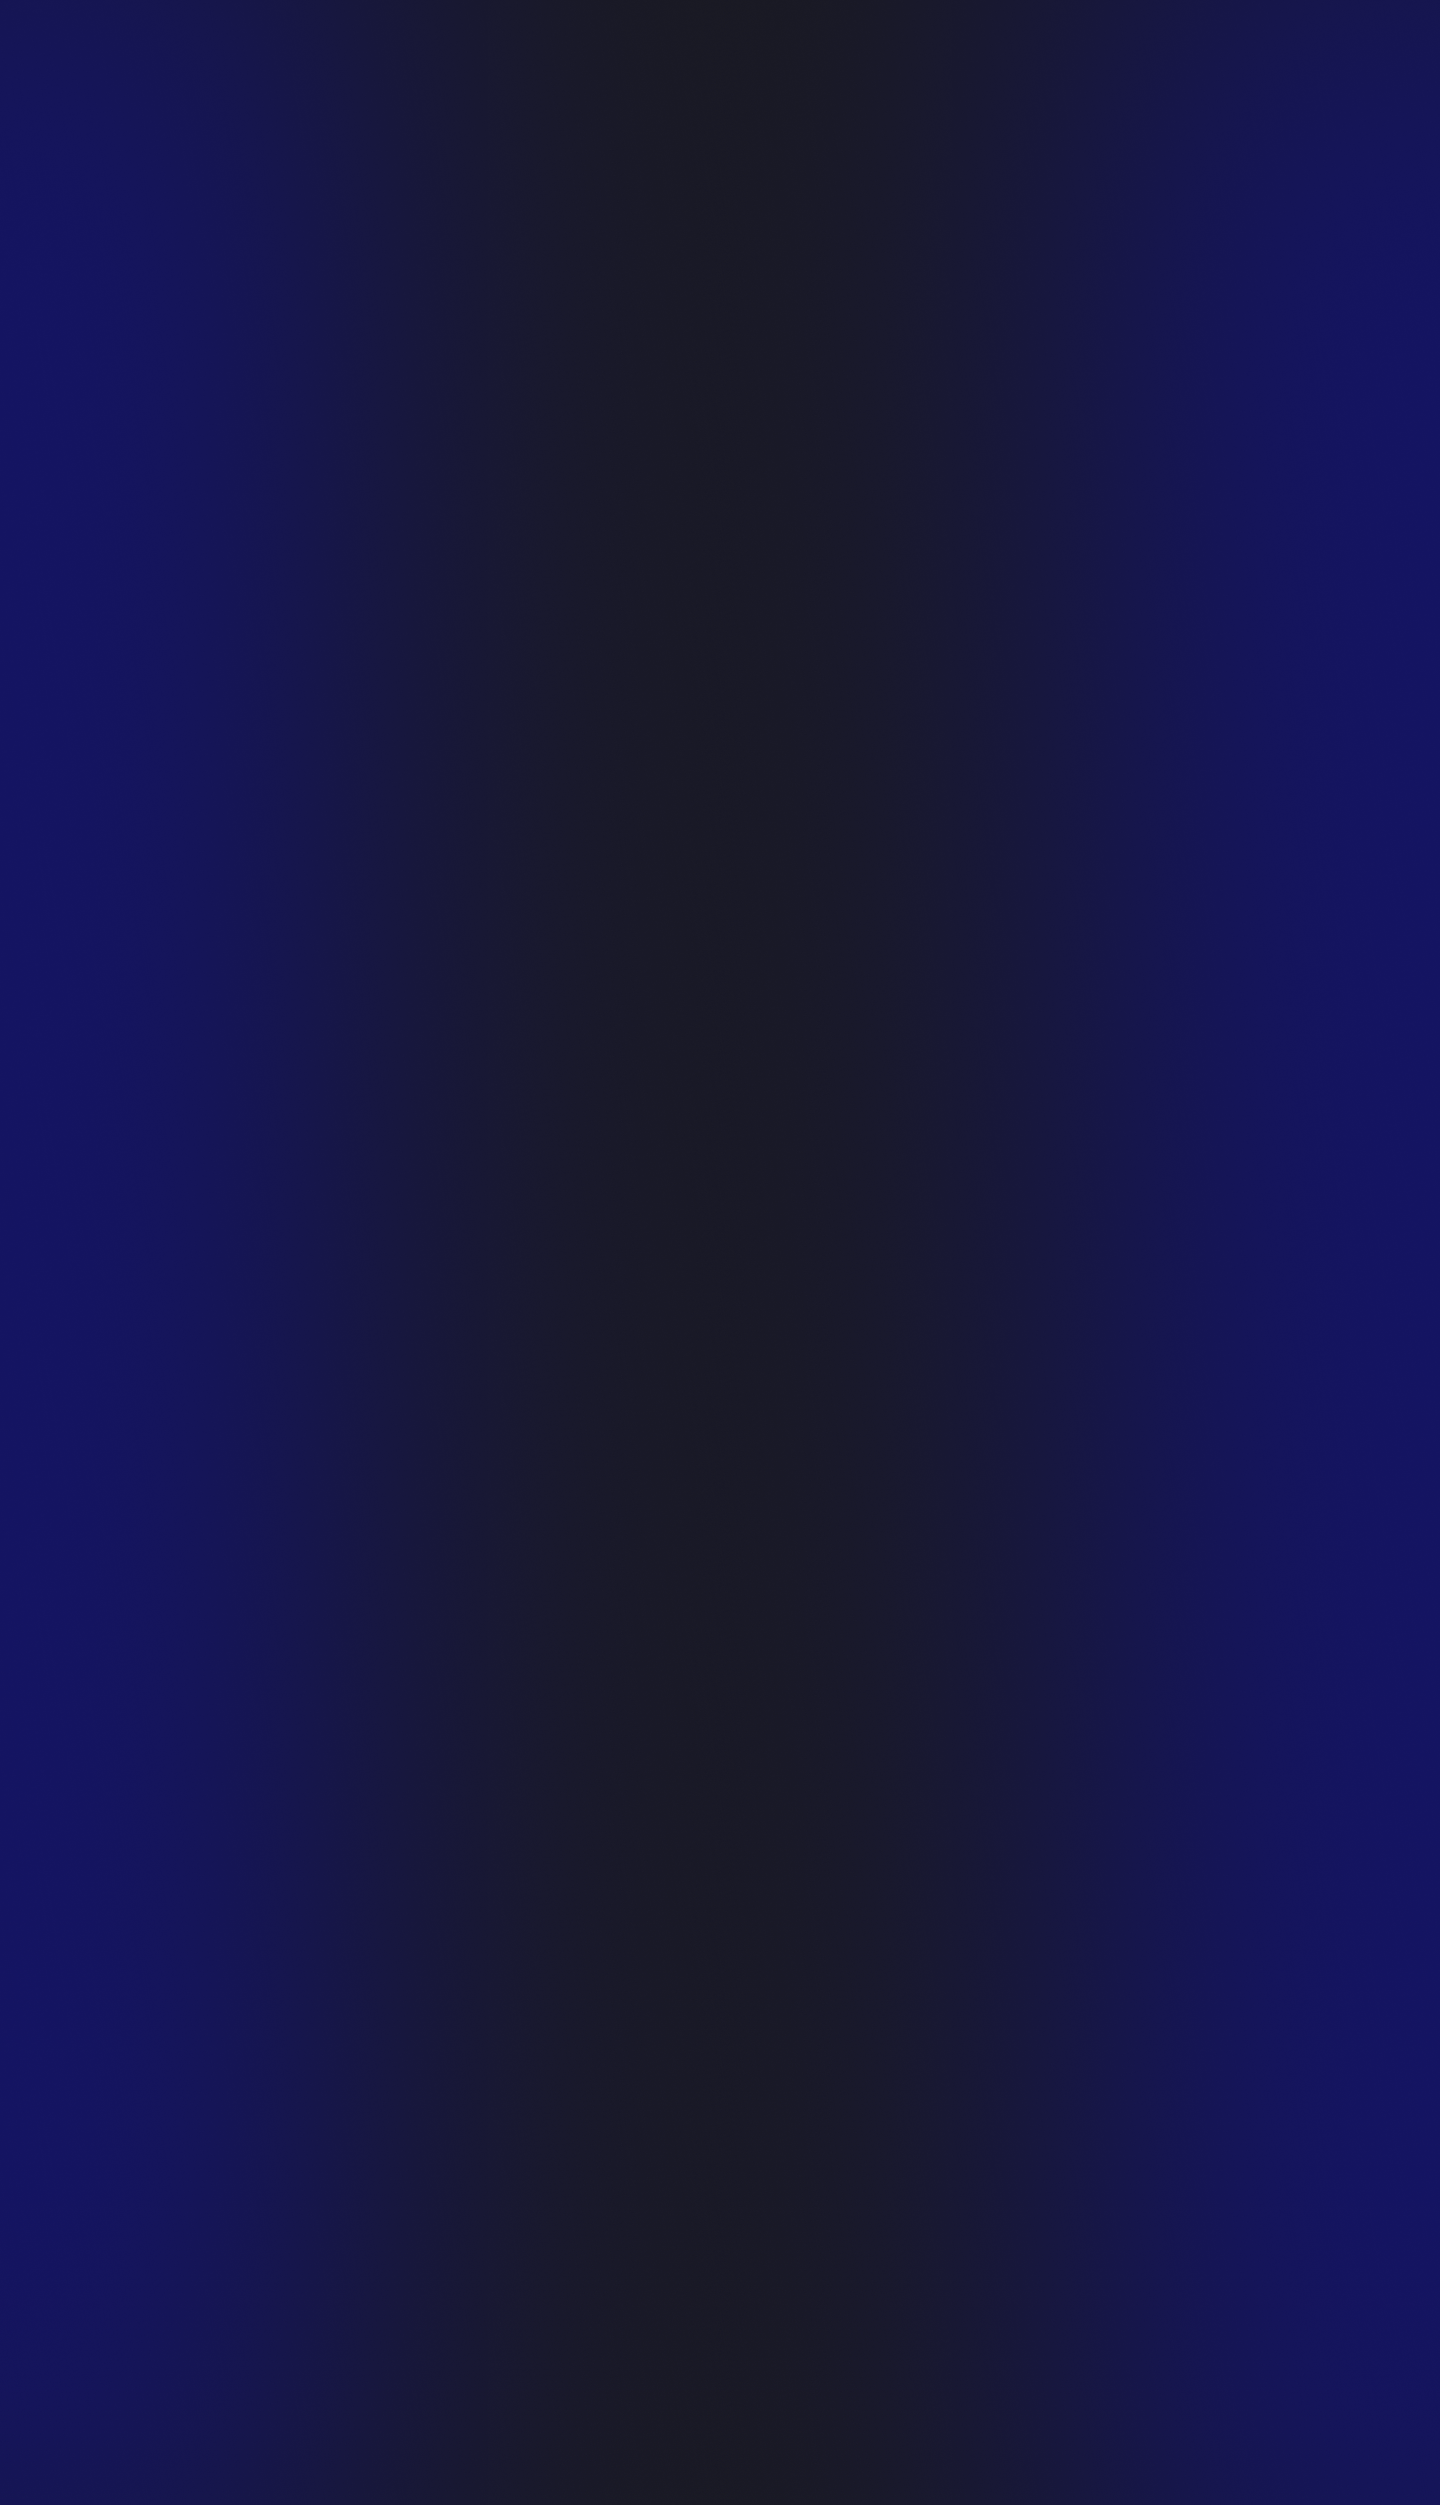
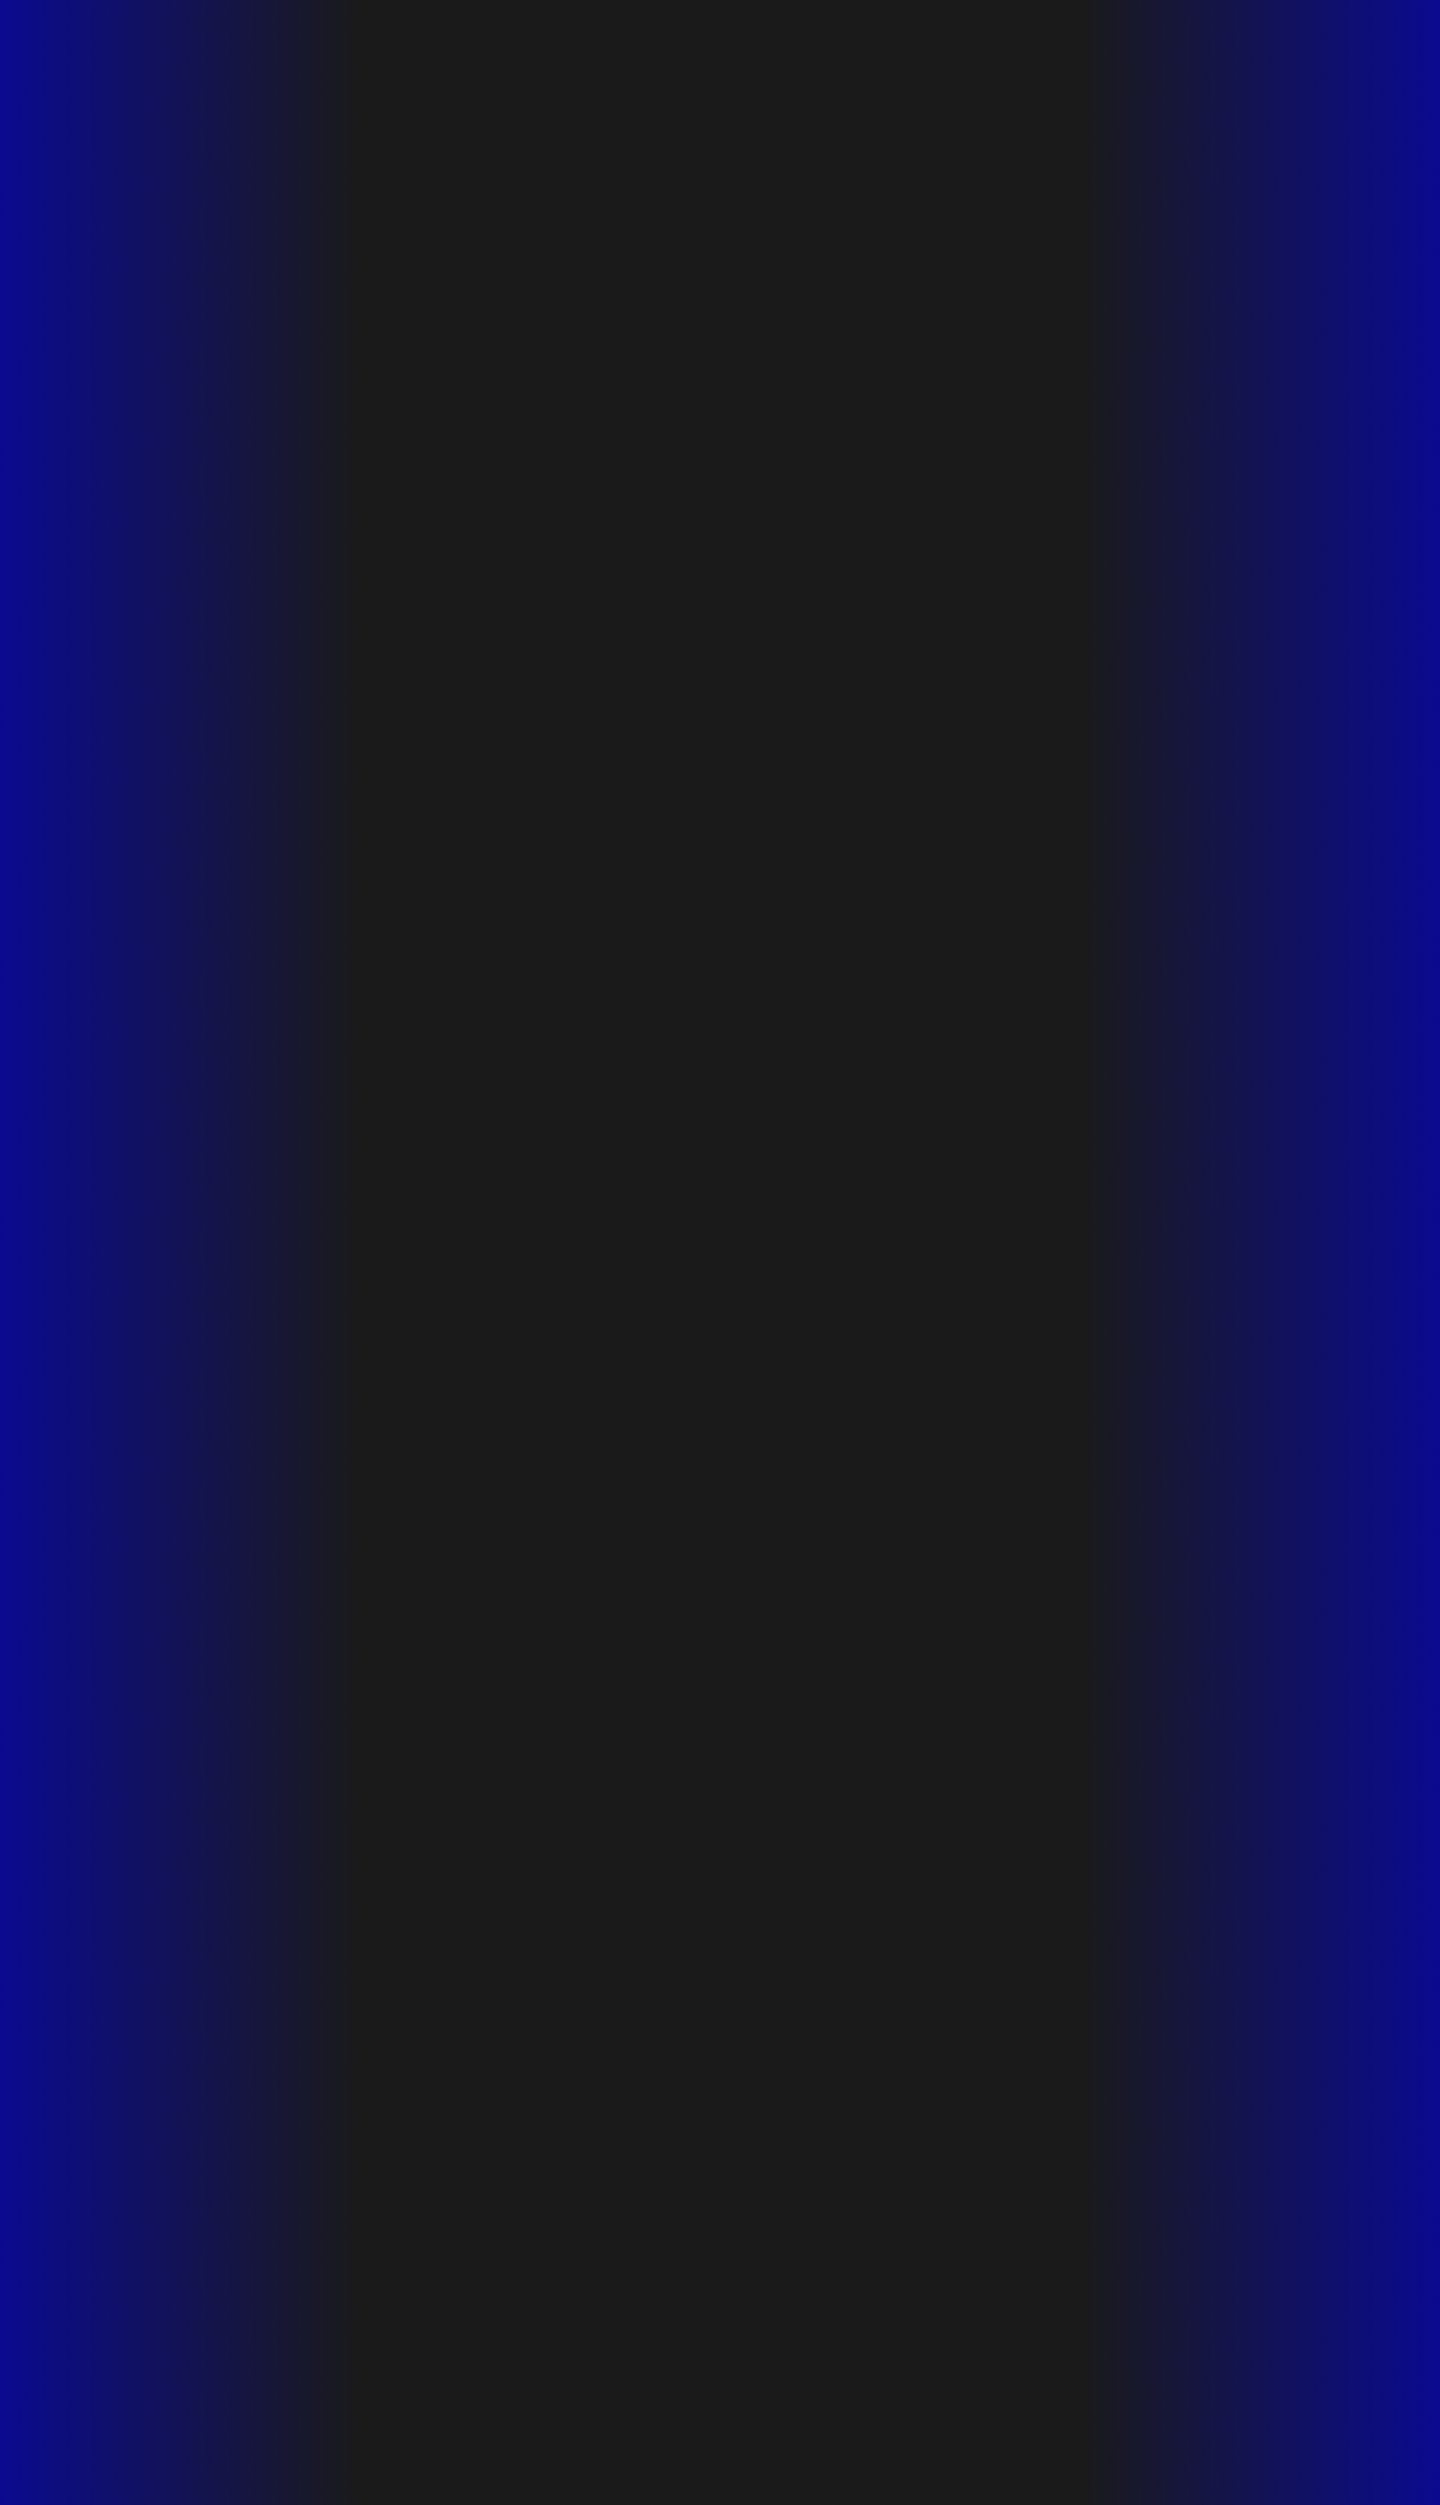
maken zitschalen pagina

diff --git a/app/contexts/LanguageContext.tsx b/app/contexts/LanguageContext.tsx
@@ -63,12 +63,15 @@ const translations = {
 
     // Zitschalen detail page
     "zitschalen.title": "Zitschalen / Zitortheses",
+    "zitschalen.heading1": "Zitschalen en zitortheses",
+    "zitschalen.heading2": "Het process",
+    "zitschalen.heading3": "De functie",
     "zitschalen.section1":
-      "Bij FIS Robotics ontwikkelen we op maat gemaakte zitschalen en zitortheses die perfect aansluiten op de unieke lichaamsvorm van elke gebruiker. Door gebruik te maken van geavanceerde 3D-scantechnologie kunnen we tot op de millimeter nauwkeurig werken, wat resulteert in optimaal comfort en ondersteuning voor dagelijks gebruik.",
+      "Zitschalen, ook wel zitortheses genoemd, zijn orthopedische hulpmiddelen die ontworpen zijn om een correcte en stabiele zithouding te ondersteunen. Ze worden volledig op maat gemaakt, omdat iedere patiënt een unieke lichaamsvorm en specifieke ondersteuningsbehoefte heeft.\n\nHet doel van een zitschaal is om het lichaam optimaal te positioneren, zodat de gebruiker comfortabel kan zitten en lichamelijke klachten worden verminderd of voorkomen. Door gebruik te maken van moderne technieken zoals 3D-scans en digitale modellen kan een zitschaal zeer nauwkeurig worden afgestemd op de persoon.",
     "zitschalen.section2":
-      "Onze zitoplossingen worden vervaardigd uit hoogwaardige, medisch gecertificeerde materialen die zowel lichtgewicht als extreem duurzaam zijn. We werken nauw samen met ergotherapeuten, fysiotherapeuten en revalidatieartsen om ervoor te zorgen dat elk product voldoet aan de hoogste medische standaarden en de levenskwaliteit van gebruikers significant verbetert.",
+      "Het maken van een zitschaal begint met het aanmeten van de patiënt. Hierbij wordt een afdruk gemaakt van de zithouding. Deze afdruk wordt vervolgens digitaal ingescand met een 3D-scanner, zodat er een nauwkeurig digitaal model ontstaat.\n\nVanuit deze scan wordt een 3D-model gemaakt waarin de nodige orthopedische aanpassingen worden verwerkt. In het traditionele proces werd daarna een mal gefreesd en een kunststof plaat gevormd, die later nog moest worden bijgewerkt en gemonteerd.\n\nIn het nieuwe proces wordt het digitale model rechtstreeks gebruikt om de zitschaal met een 3D-printer te produceren. Hierdoor zijn minder bewerkingen nodig en ontstaat er minder afval. Na het printen wordt de zitschaal gemonteerd met bijvoorbeeld polstering en een onderstel.",
     "zitschalen.section3":
-      "Innovatie staat centraal in alles wat we doen. Van het eerste consult tot de uiteindelijke levering begeleiden we u door het hele proces. Ons team van specialisten staat klaar om samen met u de perfecte zitoplossing te vinden die aansluit bij uw specifieke behoeften, mobiliteit en levensstijl.",
+      "De belangrijkste functie van een zitschaal is het ondersteunen van een goede zithouding en het verbeteren van het comfort van de gebruiker. Door de persoonlijke pasvorm wordt het lichaam goed ondersteund, wat helpt om drukpunten te verminderen en een betere lichaamshouding te behouden.\n\nDaarnaast zorgen moderne productiemethoden, zoals 3D-printen, ervoor dat zitschalen duurzamer geproduceerd kunnen worden. Het materiaal kan vaak gerecycled worden en er is minder afval tijdens de productie. Ook kan het productieproces efficiënter en sneller verlopen.",
 
     // Creatief detail page
     "creatief.title": "Creatieve Industrie",
@@ -135,12 +138,15 @@ const translations = {
 
     // Zitschalen detail page
     "zitschalen.title": "Seating Shells / Orthoses",
+    "zitschalen.heading1": "Seating shells and orthoses",
+    "zitschalen.heading2": "The process",
+    "zitschalen.heading3": "The function",
     "zitschalen.section1":
-      "At FIS Robotics, we develop custom-made seating shells and orthoses that perfectly match each user's unique body shape. Using advanced 3D scanning technology, we work with millimetre precision, resulting in optimal comfort and support for daily use.",
+      "Seating shells, also known as seating orthoses, are orthopedic assistive devices designed to support a correct and stable seated posture. They are made completely to measure, because every patient has a unique body shape and specific support needs.\n\nThe goal of a seating shell is to position the body optimally, so the user can sit comfortably and physical complaints can be reduced or prevented. By using modern techniques such as 3D scans and digital models, a seating shell can be matched very precisely to the individual.",
     "zitschalen.section2":
-      "Our seating solutions are made from high-quality, medically certified materials that are both lightweight and extremely durable. We work closely with occupational therapists, physiotherapists and rehabilitation physicians to ensure that each product meets the highest medical standards and significantly improves users' quality of life.",
+      "Making a seating shell starts with fitting the patient. First, an impression is taken of the seated posture. This impression is then digitally scanned with a 3D scanner to create an accurate digital model.\n\nFrom this scan, a 3D model is created in which the required orthopedic adjustments are incorporated. In the traditional process, a mould was then milled and a plastic sheet formed, which later still needed to be refined and mounted.\n\nIn the new process, the digital model is used directly to produce the seating shell with a 3D printer. This means fewer processing steps are needed and less waste is created. After printing, the seating shell is assembled with, for example, padding and a base frame.",
     "zitschalen.section3":
-      "Innovation is at the heart of everything we do. From the first consultation to final delivery, we guide you through the entire process. Our team of specialists is ready to help you find the perfect seating solution that fits your specific needs, mobility and lifestyle.",
+      "The main function of a seating shell is to support a good seated posture and improve the user's comfort. With the personalized fit, the body is supported properly, helping to reduce pressure points and maintain a better body posture.\n\nIn addition, modern production methods such as 3D printing make seating shells more sustainably produced. The material can often be recycled and there is less waste during production. The production process can also be more efficient and faster.",
 
     // Creatief detail page
     "creatief.title": "Creative Industry",

diff --git a/app/components/ImageCarousel.tsx b/app/components/ImageCarousel.tsx
@@ -59,15 +59,14 @@ export const ImageCarousel: React.FC<ImageCarouselProps> = ({ images, altPrefix 
       {images.length > 0 ? (
         <div
           key={`${index}-${direction}`}
-          className={`relative w-full h-full ${
-            direction === "next" ? "animate-slide-next" : "animate-slide-prev"
-          }`}
+          className={`relative w-full h-full bg-black ${direction === "next" ? "animate-slide-next" : "animate-slide-prev"
+            }`}
         >
           <Image
             src={images[index]}
             alt={`${altPrefix} ${index + 1}`}
             fill
-            className="object-cover"
+            className="object-contain object-center"
             sizes="(max-width: 768px) 100vw, 50vw"
             draggable={false}
           />
@@ -81,10 +80,10 @@ export const ImageCarousel: React.FC<ImageCarouselProps> = ({ images, altPrefix 
           e.stopPropagation();
           goPrev();
         }}
-        className="absolute left-2 top-1/2 -translate-y-1/2 flex h-12 w-12 items-center justify-center text-white hover:text-gray-200 transition-colors"
+        className="absolute left-3 top-1/2 -translate-y-1/2 flex h-50 w-16 items-center justify-center text-white hover:text-gray-200 transition-colors"
         aria-label="Vorige"
       >
-        <span className="text-4xl leading-none drop-shadow-[0_0_6px_rgba(0,0,0,0.7)]">‹</span>
+        <span className="text-7xl leading-none drop-shadow-[0_0_10px_rgba(0,0,0,0.7)]">‹</span>
       </button>
 
       <button
@@ -94,10 +93,10 @@ export const ImageCarousel: React.FC<ImageCarouselProps> = ({ images, altPrefix 
           e.stopPropagation();
           goNext();
         }}
-        className="absolute right-2 top-1/2 -translate-y-1/2 flex h-12 w-12 items-center justify-center text-white hover:text-gray-200 transition-colors"
+        className="absolute right-3 top-1/2 -translate-y-1/2 flex h-24 w-16 items-center justify-center text-white hover:text-gray-200 transition-colors"
         aria-label="Volgende"
       >
-        <span className="text-4xl leading-none drop-shadow-[0_0_6px_rgba(0,0,0,0.7)]">›</span>
+        <span className="text-7xl leading-none drop-shadow-[0_0_10px_rgba(0,0,0,0.7)]">›</span>
       </button>
 
       <div className="absolute bottom-2 left-1/2 -translate-x-1/2 flex gap-2">
@@ -111,9 +110,8 @@ export const ImageCarousel: React.FC<ImageCarouselProps> = ({ images, altPrefix 
               setDirection(idx > index ? "next" : "prev");
               setIndex(idx);
             }}
-            className={`w-2.5 h-2.5 rounded-full border border-white/70 transition-colors ${
-              idx === index ? "bg-white" : "bg-white/20"
-            }`}
+            className={`w-2.5 h-2.5 rounded-full border border-white/70 transition-colors ${idx === index ? "bg-white" : "bg-white/20"
+              }`}
             aria-label={`Toon afbeelding ${idx + 1}`}
           />
         ))}

diff --git a/app/zitschalen/page.tsx b/app/zitschalen/page.tsx
@@ -27,19 +27,36 @@ export default function ZitschalenPage() {
   const sections = useMemo(
     () => [
       {
-        image: "",
+
+        images: ["/images/zitschalen1.png",
+          "/images/zitschalen2.png",
+          "/images/zitschalen3.png",
+          "/images/zitschalen4.png"],
+        heading: t("zitschalen.heading1"),
         text: t("zitschalen.section1"),
-        imagePosition: "right" as const,
-      },
-      {
-        image: "",
-        text: t("zitschalen.section2"),
         imagePosition: "left" as const,
       },
       {
-        image: "",
-        text: t("zitschalen.section3"),
+        // Kop 2: process
+        images: [
+          "/images/process1.jpg",
+          "/images/process2.png",
+          "/images/process3.png",
+          "/images/process4.png",
+        ],
+        heading: t("zitschalen.heading2"),
+        text: t("zitschalen.section2"),
         imagePosition: "right" as const,
+      },
+      {
+        // Kop 3: functie
+        images: ["/images/functie1.jpg",
+          "/images/functie2.jpg",
+          "/images/functie3.jpg",
+          "/images/functie4.png"],
+        heading: t("zitschalen.heading3"),
+        text: t("zitschalen.section3"),
+        imagePosition: "left" as const,
       },
     ],
     [t]
@@ -51,6 +68,7 @@ export default function ZitschalenPage() {
       sections={sections}
       menuItems={menuItems}
       socialItems={socialItems}
+      hideHero
     />
   );
 }

diff --git a/app/components/DetailPage.tsx b/app/components/DetailPage.tsx
@@ -94,7 +94,7 @@ export const DetailPage: React.FC<DetailPageProps> = ({
                           ? "border-0"
                           : "border-2 border-dashed border-white/30"
                       }`}
-                      style={{ backgroundColor: "transparent" }}
+                      style={{ backgroundColor: "#000" }}
                     >
                       {section.images && section.images.length > 0 ? (
                         <ImageCarousel
@@ -106,7 +106,7 @@ export const DetailPage: React.FC<DetailPageProps> = ({
                           src={section.image}
                           alt={section.text.substring(0, 50)}
                           fill
-                          className="object-cover"
+                          className="object-contain object-center"
                           sizes="(max-width: 768px) 100vw, 50vw"
                           onError={(e) => {
                             const target = e.target as HTMLImageElement;
